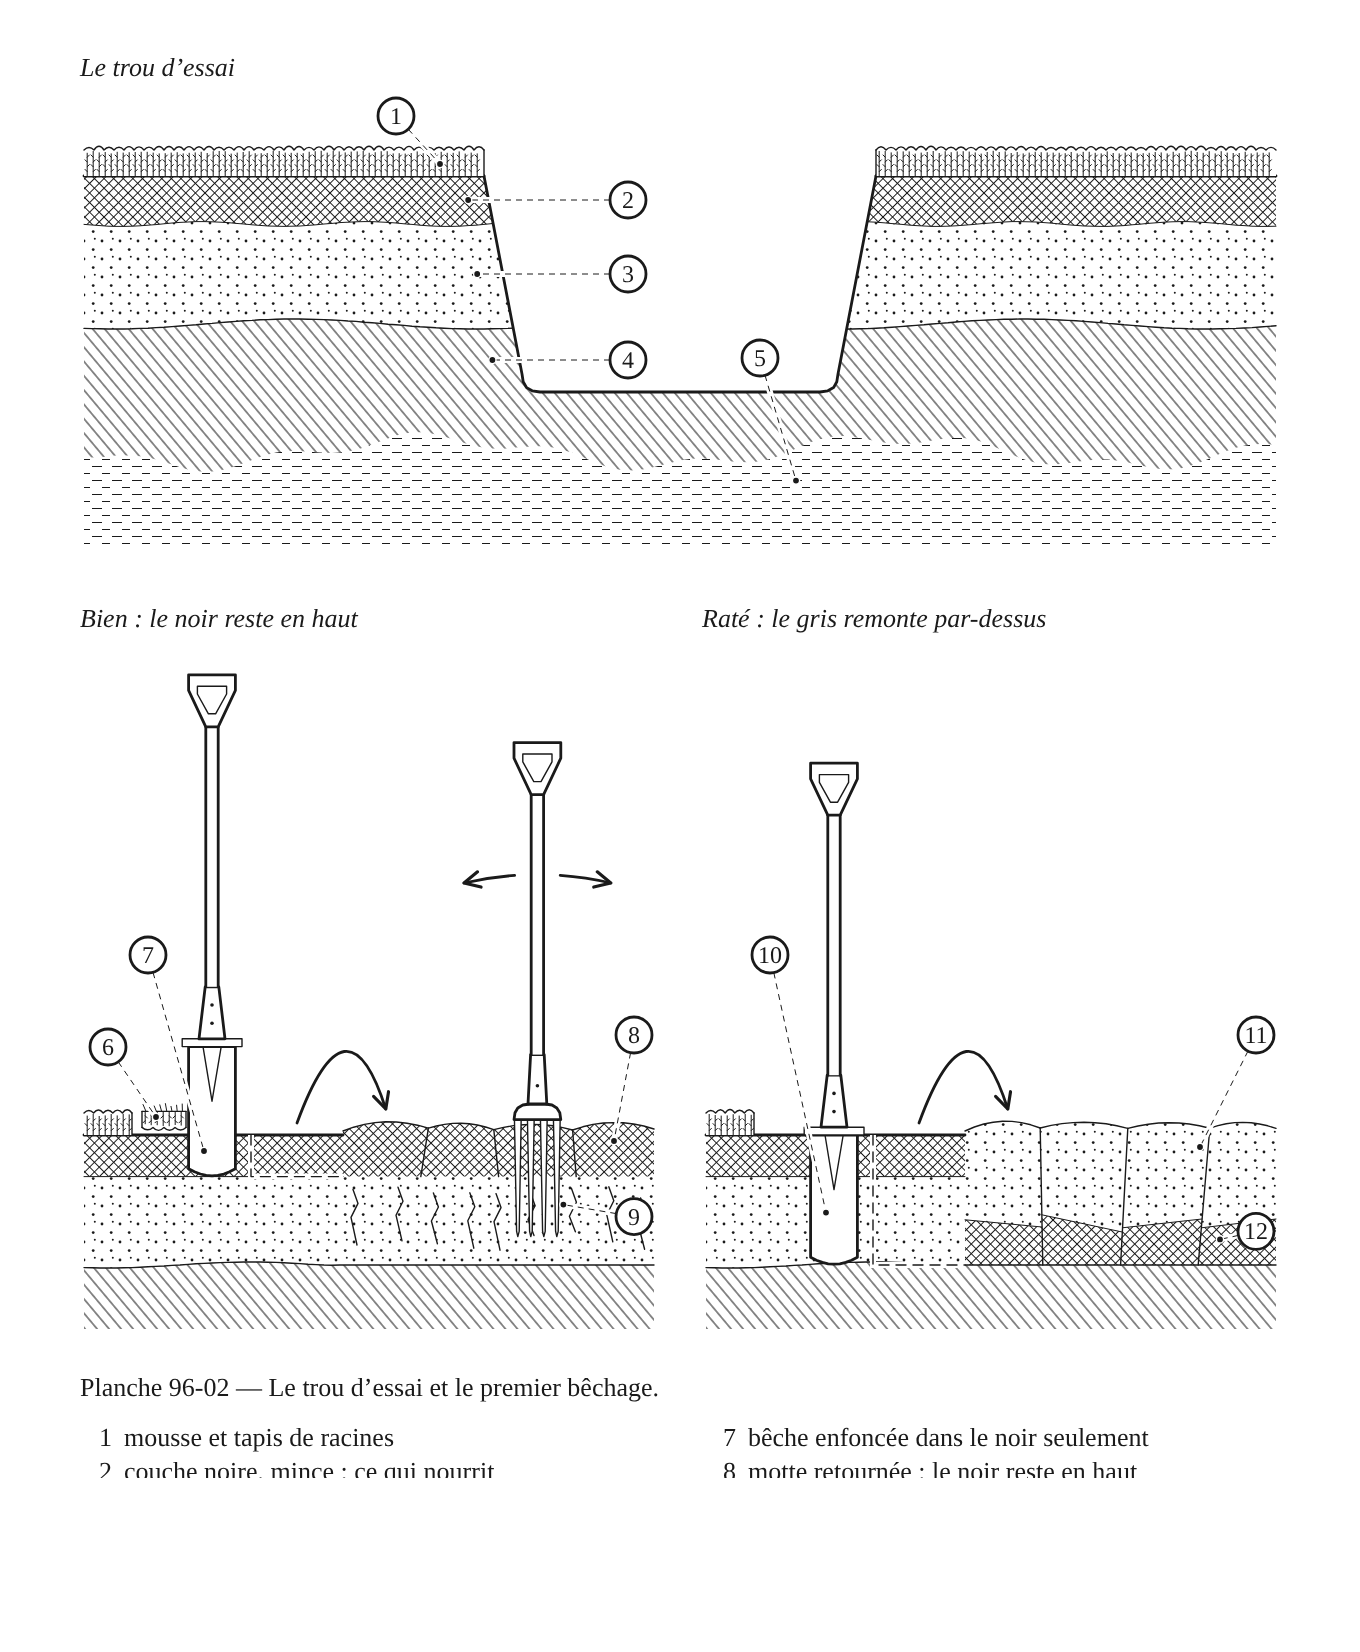
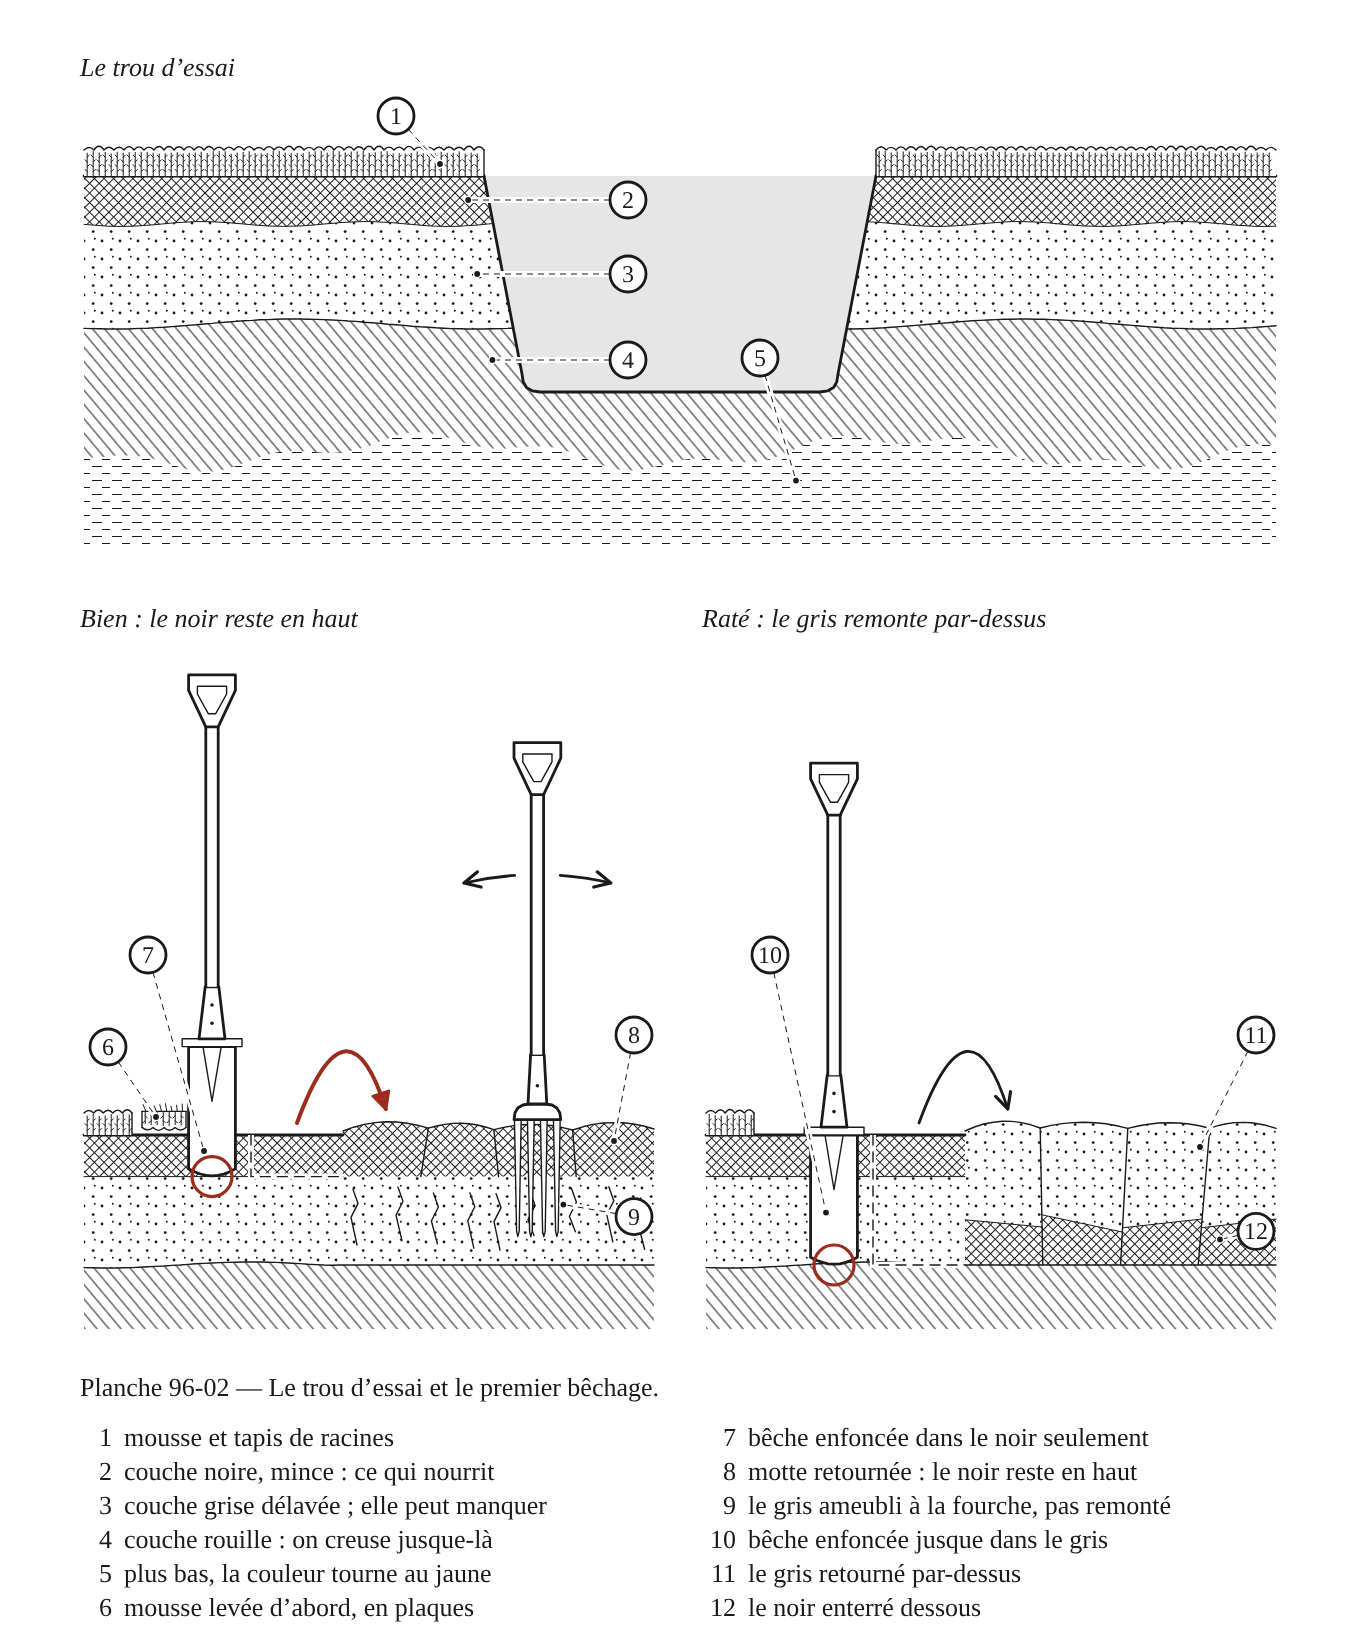
Charte et mains : travail en cours
Claude-Session: https://claude.ai/code/session_014xDY5FLxFXDJt3nYAYznSZ

diff --git a/images/planches-src/96-02.js b/images/planches-src/96-02.js
@@ -8,6 +8,10 @@
 // motte retournée met le gris par-dessus et enterre le noir.
 // Aucune épaisseur de couche ni profondeur dans le chapitre : aucune cote. Les trois vues gardent les
 // mêmes trames : quadrillé serré = noir, points = gris, rayures = rouille, tirets courts horizontaux en quinconce = jaune.
+// La charte : le trou d'essai, vide, montre sa paroi du fond en gris loin. Le rouge : la bêche qui
+// retourne la motte, dans le bien (le geste) ; la pointe de la lame, cerclée dans les deux vues (le
+// point à vérifier : dans le noir seulement ; sur le raté, là où ça casse). Le raté garde sa flèche
+// noire : ce n'est pas le geste à faire. La fourche basculée garde ses flèches noires.
 module.exports = (h) => {
   const N = '#1A1A1A', B = '#FFFFFF';
   const f = (v) => Math.round(v * 10) / 10;
@@ -170,7 +174,7 @@ module.exports = (h) => {
   };
 
   // Le geste de la bêche : la motte soulevée et retournée sur le bêché.
-  const retourne = (c) => h.fleche(`M ${f((c.xa + c.xw) / 2)} ${f(c.ys - 6)} Q ${f(c.xw + 2)} ${f(c.ys - 74)} ${f(c.xw + c.wk * 0.55)} ${f(c.ys - 13)}`);
+  const retourne = (c, rouge = false) => (rouge ? h.geste : h.fleche)(`M ${f((c.xa + c.xw) / 2)} ${f(c.ys - 6)} Q ${f(c.xw + 2)} ${f(c.ys - 74)} ${f(c.xw + c.wk * 0.55)} ${f(c.ys - 13)}`);
 
   return {
     ref: '96-02',
@@ -196,7 +200,8 @@ module.exports = (h) => {
           const yf = g.ys + g.D, r = 9;
           const murs = [[hl, g.ys], [bl, yf - r], ...bez([bl, yf - r], [bl, yf], [bl + r, yf], 4).slice(1),
             [br - r, yf], ...bez([br - r, yf], [br, yf], [br, yf - r], 4).slice(1), [hr, g.ys]];
-          out.push(poly(murs, h.a.blanc));
+          // le trou, vu en coupe : sa paroi du fond, derrière, en gris loin
+          out.push(poly(murs, h.a.loin));
           out.push(ouvert(murs, h.a.arete));
           out.push(ouvert([[x0, g.ys], [hl, g.ys]], h.a.arete), ouvert([[hr, g.ys], [x1, g.ys]], h.a.arete));
           out.push(mousse(x0, hl, g.ys, g.MO, rnd, [hl]), mousse(hr, x1, g.ys, g.MO, rnd, [hr]));
@@ -246,7 +251,9 @@ module.exports = (h) => {
             out.push(h.fleche(`M ${f(p0[0])} ${f(p0[1])} A ${f(R)} ${f(R)} 0 0 ${a1 > 0 ? 1 : 0} ${f(p1[0])} ${f(p1[1])}`));
           });
           // Le geste de la bêche : la motte de noir soulevée et retournée sur le bêché.
-          out.push(retourne(c));
+          out.push(retourne(c, true));
+          // le point à vérifier : la pointe de la lame s'arrête à la fin du noir
+          out.push(h.controle(c.xs, c.ys + c.NB, 10));
           return out.join('\n');
         },
         renvois: (z) => {
@@ -269,6 +276,8 @@ module.exports = (h) => {
           out.push(m.svg);
           out.push(beche(c.xs, c.ys + c.NB + c.NG, c.k));
           out.push(retourne(c));
+          // là où ça casse : la lame descendue jusque dans le gris
+          out.push(h.controle(c.xs, c.ys + c.NB + c.NG, 10));
           return out.join('\n');
         },
         renvois: (z) => {

diff --git a/images/planches-src/112-10b.js b/images/planches-src/112-10b.js
@@ -124,7 +124,7 @@ module.exports = (h) => {
           out.push(pot(g.b0, g.b1, g.bH, g.yP, g.yM, 'isolant'));
           // le bâton qui brasse
           out.push(h.chemin(P([[g.b0 + 6, g.yP - 8], [g.b0 + 2, g.yP - 11], [g.b0 - 26, 14], [g.b0 - 22, 12], [g.b0 + 9, g.yP - 9]]), blanc('arete'), true));
-          out.push(h.geste(`M ${f(g.b0 + 8)} ${f(g.yM + 6)} A 18 5 0 1 0 ${f(g.b1 - 8)} ${f(g.yM + 6)}`));   // la charte : brasser, le geste en rouge
+          out.push(h.geste(`M ${f(g.b0 + 8)} ${f(g.yM + 6)} A 18 5 0 1 0 ${f(g.b1 - 16)} ${f(g.yM + 5)}`));   // la charte : brasser (bout écarté du renvoi 4), le geste en rouge
           // les gouttes de lessive, d'une cuillère
           const sx = g.b1 + 6, sy = g.bH - 26;
           out.push(h.path(`M ${sx - 14} ${sy - 3} C ${sx - 14} ${sy + 7} ${sx + 2} ${sy + 7} ${sx + 4} ${sy} Z`, blanc('arete')));
@@ -152,7 +152,7 @@ module.exports = (h) => {
           const sx = g.b1 + 6, sy = g.bH - 26;
           return [
             { n: 3, rond: [g.b1 + 30, g.yP + 34], cible: [g.b1 - 1, g.yP - 8], texte: 'une boîte, au coin du poêle' },
-            { n: 4, rond: [g.b1 + 30, g.yP - 12], cible: [g.b1 - 12, g.yM + 18], texte: 'une cuillerée de gras fondu' },
+            { n: 4, rond: [g.b1 + 30, g.yP - 12], cible: [g.b1 - 8, g.yM + 8], texte: 'une cuillerée de gras fondu' },
             { n: 5, rond: [sx + 18, sy + 20], cible: [sx - 13, sy + 22], texte: 'quelques gouttes de lessive' },
             { n: 6, rond: [22, 30], cible: [g.b0 - 20, 22], texte: 'brassé au bâton' },
             { n: 7, rond: [g.r1x0 + 6, g.rH - 22], cible: [g.r1x0 + g.rw / 2, g.rL + 4], texte: 'en pâte : la lessive travaille' },

diff --git a/images/planches-src/106-10a.js b/images/planches-src/106-10a.js
@@ -142,6 +142,10 @@ module.exports = (h) => {
             `L${xc + 4} ${yS1 - 4} Q${xc + 4} ${yS1} ${xc} ${yS1} Q${xc - 4} ${yS1} ${xc - 4} ${yS1 - 4} Z`, blancArete));
           out.push(h.ligne(xc - 6, yN - 2.5, xc + 6, yN - 2.5, h.a.detail));
           out.push(h.ligne(xc - 6, yN + 1.5, xc + 6, yN + 1.5, h.a.detail));
+          // charte : le geste, tourner le bâton (l'arc passe devant lui) ; le point à vérifier,
+          // le bâton bloqué contre la traverse
+          out.push(h.geste(`M${xc - 15} ${yN + 26} A 15 6 0 0 0 ${xc + 15} ${yN + 26}`));
+          out.push(h.controle(xc, yM, 13));
 
           // Le mouvement : têtes vers l'intérieur, pieds vers l'extérieur.
           const yFh = yN + 16, yFp = yB - 44;
